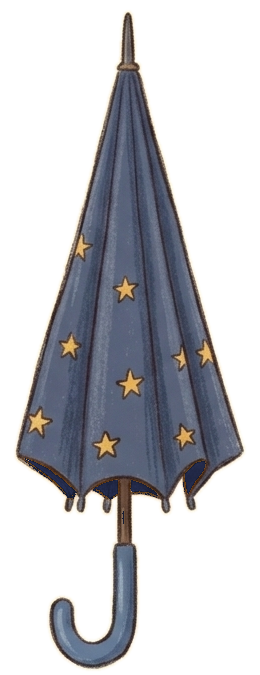
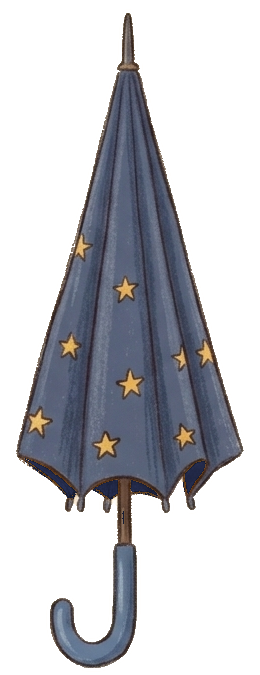
Umbrella close look: the umbrella alone over the blurred hall instead of a paper background, and the cream rim peeled off both umbrella cut-outs

diff --git a/index.html b/index.html
@@ -5333,8 +5333,10 @@ const ART = {
   toynest: () => `<image href="assets/places/umbrella/toynest.webp" width="1376" height="768"/>
     <text x="1013" y="234" text-anchor="middle" font-size="40" font-weight="700" fill="#FFF8E6" stroke="#5E4630" stroke-width="1.5" paint-order="stroke" font-family="Georgia,serif" transform="rotate(1 1013 220)">Toy Nest</text>`,
   windmill: () => `<image href="assets/places/umbrella/windmill.webp" width="1376" height="768"/>`,
-  // the close look: the confirmed umbrella picture (assets/places/umbrella/), folded or open (S.unfolded)
-  umbrella: () => `<rect width="1376" height="768" fill="#F6EED9"/>` + (S.unfolded
+  // the close look: the confirmed umbrella picture (assets/places/umbrella/), folded or open (S.unfolded), the cut-out
+  // alone over the hall it was taken from, softly blurred and dimmed (user request: no paper behind the umbrella)
+  umbrella: () => `<defs><filter id="inspectBlur" x="-5%" y="-5%" width="110%" height="110%"><feGaussianBlur stdDeviation="7"/></filter></defs>
+    <image href="assets/places/umbrella/hall.webp" width="1376" height="768" filter="url(#inspectBlur)"/><rect width="1376" height="768" fill="#2E2219" opacity=".38"/>` + (S.unfolded
     ? `<image href="assets/places/umbrella/umbrella-open.png" x="368" y="82" width="640" height="605"/>`
     : `<image href="assets/places/umbrella/umbrella-folded.png" x="558" y="46" width="260" height="675"/>`),
   interview: () => `<image href="assets/places/station-interview-room.png" width="1536" height="1536"/>`,

diff --git a/HANDOFF.md b/HANDOFF.md
@@ -108,7 +108,7 @@ node server.js            # http://localhost:5173/
 - **사건 고르기**: 주소의 `case`(`CASE_PARAMS`: `picnic`·`umbrella`)로 `CASE_ID`가 정해지고, 사건 데이터 묶음은 `PACK`(`PICNIC_CASE`·`UMBRELLA_CASE`, 도서관은 `null`이라 엔진 상수를 그대로 씀)에서 온다. 주소·저장 키는 `caseHref(id)`·`caseSaveKey(id)`(우산 `detective.save.umbrella`). 사건 카드 사진은 `CASES[].cover`.
 - **녹음 없음(`silent`)**: 우산 사건은 모든 줄(인물·탐정 질문·증거·물건 나레이션·추리)을 브라우저 음성으로 읽는다(`detectiveSay`가 글을 받으면 `readOut`, `DEDUCE_RECORDED` 비움). 녹음을 넣으면 `silent`를 빼고 경로를 잇는다.
 - **흐름**: 이번 사건의 열쇠(`GRAMMAR.whose` 3쪽, 예문 음성 `audio/examples/whose-*.wav`는 `scripts/generate-example-audio.ps1`로 PC 음성) → 엘라(회관). 엘라의 질문 e1 "Whose umbrella is that?"·e2와 **행동** "Can I take a closer look at that umbrella?"(`people[].actions`: 받아 적지 않고 몇 번이고 고를 수 있는 선택지, 대화가 끝난 뒤에도 남음, `doAction()`).
-- **우산 확대 조사**: 행동의 답 뒤 `openInspect()`가 지도에 없는 장소 `umbrella`(`inspect:true`)를 연다. 확정 우산 그림을 잘라 만든 `assets/places/umbrella/umbrella-folded.png`·`umbrella-open.png`를 가운데에 놓고, 아래 `펼치기`/`접기`(`#foldFoot`, `S.unfolded`)로 바꾼다. 접힌 상태에서만 손잡이·겉무늬(`spots[].folded`), 펼친 상태에서만 안감(`spots[].open`)을 찍는다. `<`는 엘라 대화로 돌아간다. 소지품으로 넣지 않는다.
+- **우산 확대 조사**: 행동의 답 뒤 `openInspect()`가 지도에 없는 장소 `umbrella`(`inspect:true`)를 연다. 확정 우산 그림을 잘라 만든 `assets/places/umbrella/umbrella-folded.png`·`umbrella-open.png`(배경 없는 우산만)를 흐리고 어둡게 깐 회관 그림 위 가운데에 놓고(사용자 요청: 종이 바탕 없이), 아래 `펼치기`/`접기`(`#foldFoot`, `S.unfolded`)로 바꾼다. 접힌 상태에서만 손잡이·겉무늬(`spots[].folded`), 펼친 상태에서만 안감(`spots[].open`)을 찍는다. `<`는 엘라 대화로 돌아간다. 소지품으로 넣지 않는다.
 - **두 장으로 해금(`together`)**: 회관의 현수막(`hall-0`)과 장소 변경 안내문(`hall-1`)을 둘 다 찍고 노트를 닫으면 탐정의 생각 "It rained at the toy bazaar…"이 현장 그림 위 말풍선(`.think-place`, 현장에서는 대화 장면의 말풍선이 숨어 있어 따로 띄움)으로 나오고, 누르면 "Toy Nest에 갈 수 있어요" 알림이 뜬다. 테스는 `unlocks.quiet`로 이름 알림 없이 가게에 선다.
 - **이름 없는 인물**: 테스는 `unnamed:'Tortoise'`라 자기소개 줄(`hello[].intro`)을 듣기 전까지 이름표·지도·노트에 "Tortoise"로 나온다(`name` getter, `per.introduced`). 첫 질문은 t0만(`openingQuestion`), t4로 루비, t5로 핀·풍차 언덕.
 - **추리 들어가기**: 대화가 모두 끝나고 `PACK.needed`의 필수 사진 5장(우산 3장·현수막·안내문)이 있어야 `추리하기`가 나온다. 게시판의 실내 바자회 사진(`hall-2`)은 선택. 추리 빈칸 `{opt:…}`은 문항의 `opts`를 보기로 쓴다. 핀(Q3)·테스(Q4)는 X(`out`), 루비(Q5)는 동그라미(`lie`의 표시를 주인 표시로 씀).

diff --git a/assets/places/README.md b/assets/places/README.md
@@ -98,3 +98,4 @@ Use case: illustration-story. Create ONE empty background illustration for the w
   - 2차(job `96f44e4b-bd97-48f1-ac56-3dcb055bf0f5`, 원본 `map-toynest-higgsfield-original.jpg`): 1차를 붙인 지도를 올려(media `6187f858-…`) 호수 아래 오른쪽 끝 소나무 자리에 장난감 가게(민트색 정면·곰 인형 그림 간판)만 더하게 함.
 - 붙이기: 지도와 편집본이 픽셀 단위로 맞아(어긋남 0) 상자 안에서 다른 곳(밝기 차 45 초과)만 넓혀 흐린 가장자리로 붙였다. 풍차 (215,110)–(375,340), 회관 (540,200)–(768,450), 가게 (590,720)–(768,1000)(베티의 집 (560,940)–(690,1000)은 붙이지 않음).
 - 핀: 풍차 언덕 x 38 y 17, 마을회관 x 84 y 28, 토이 네스트 x 91 y 65.
+- 우산 가장자리(2026-11-03, 사용자 요청: 우산 조사 화면에서 배경 없이 우산만): `umbrella-folded.png`·`umbrella-open.png`에 남아 있던 크림색 종이 테두리를 바깥 투명에서부터 8px 안까지, 밝고 채도 낮은 픽셀만 지움(파이썬 한 번, 크레딧 없음). 조사 화면 바탕은 크림색 면 대신 회관 그림을 흐리고 어둡게 깐다(`ART.umbrella`).
